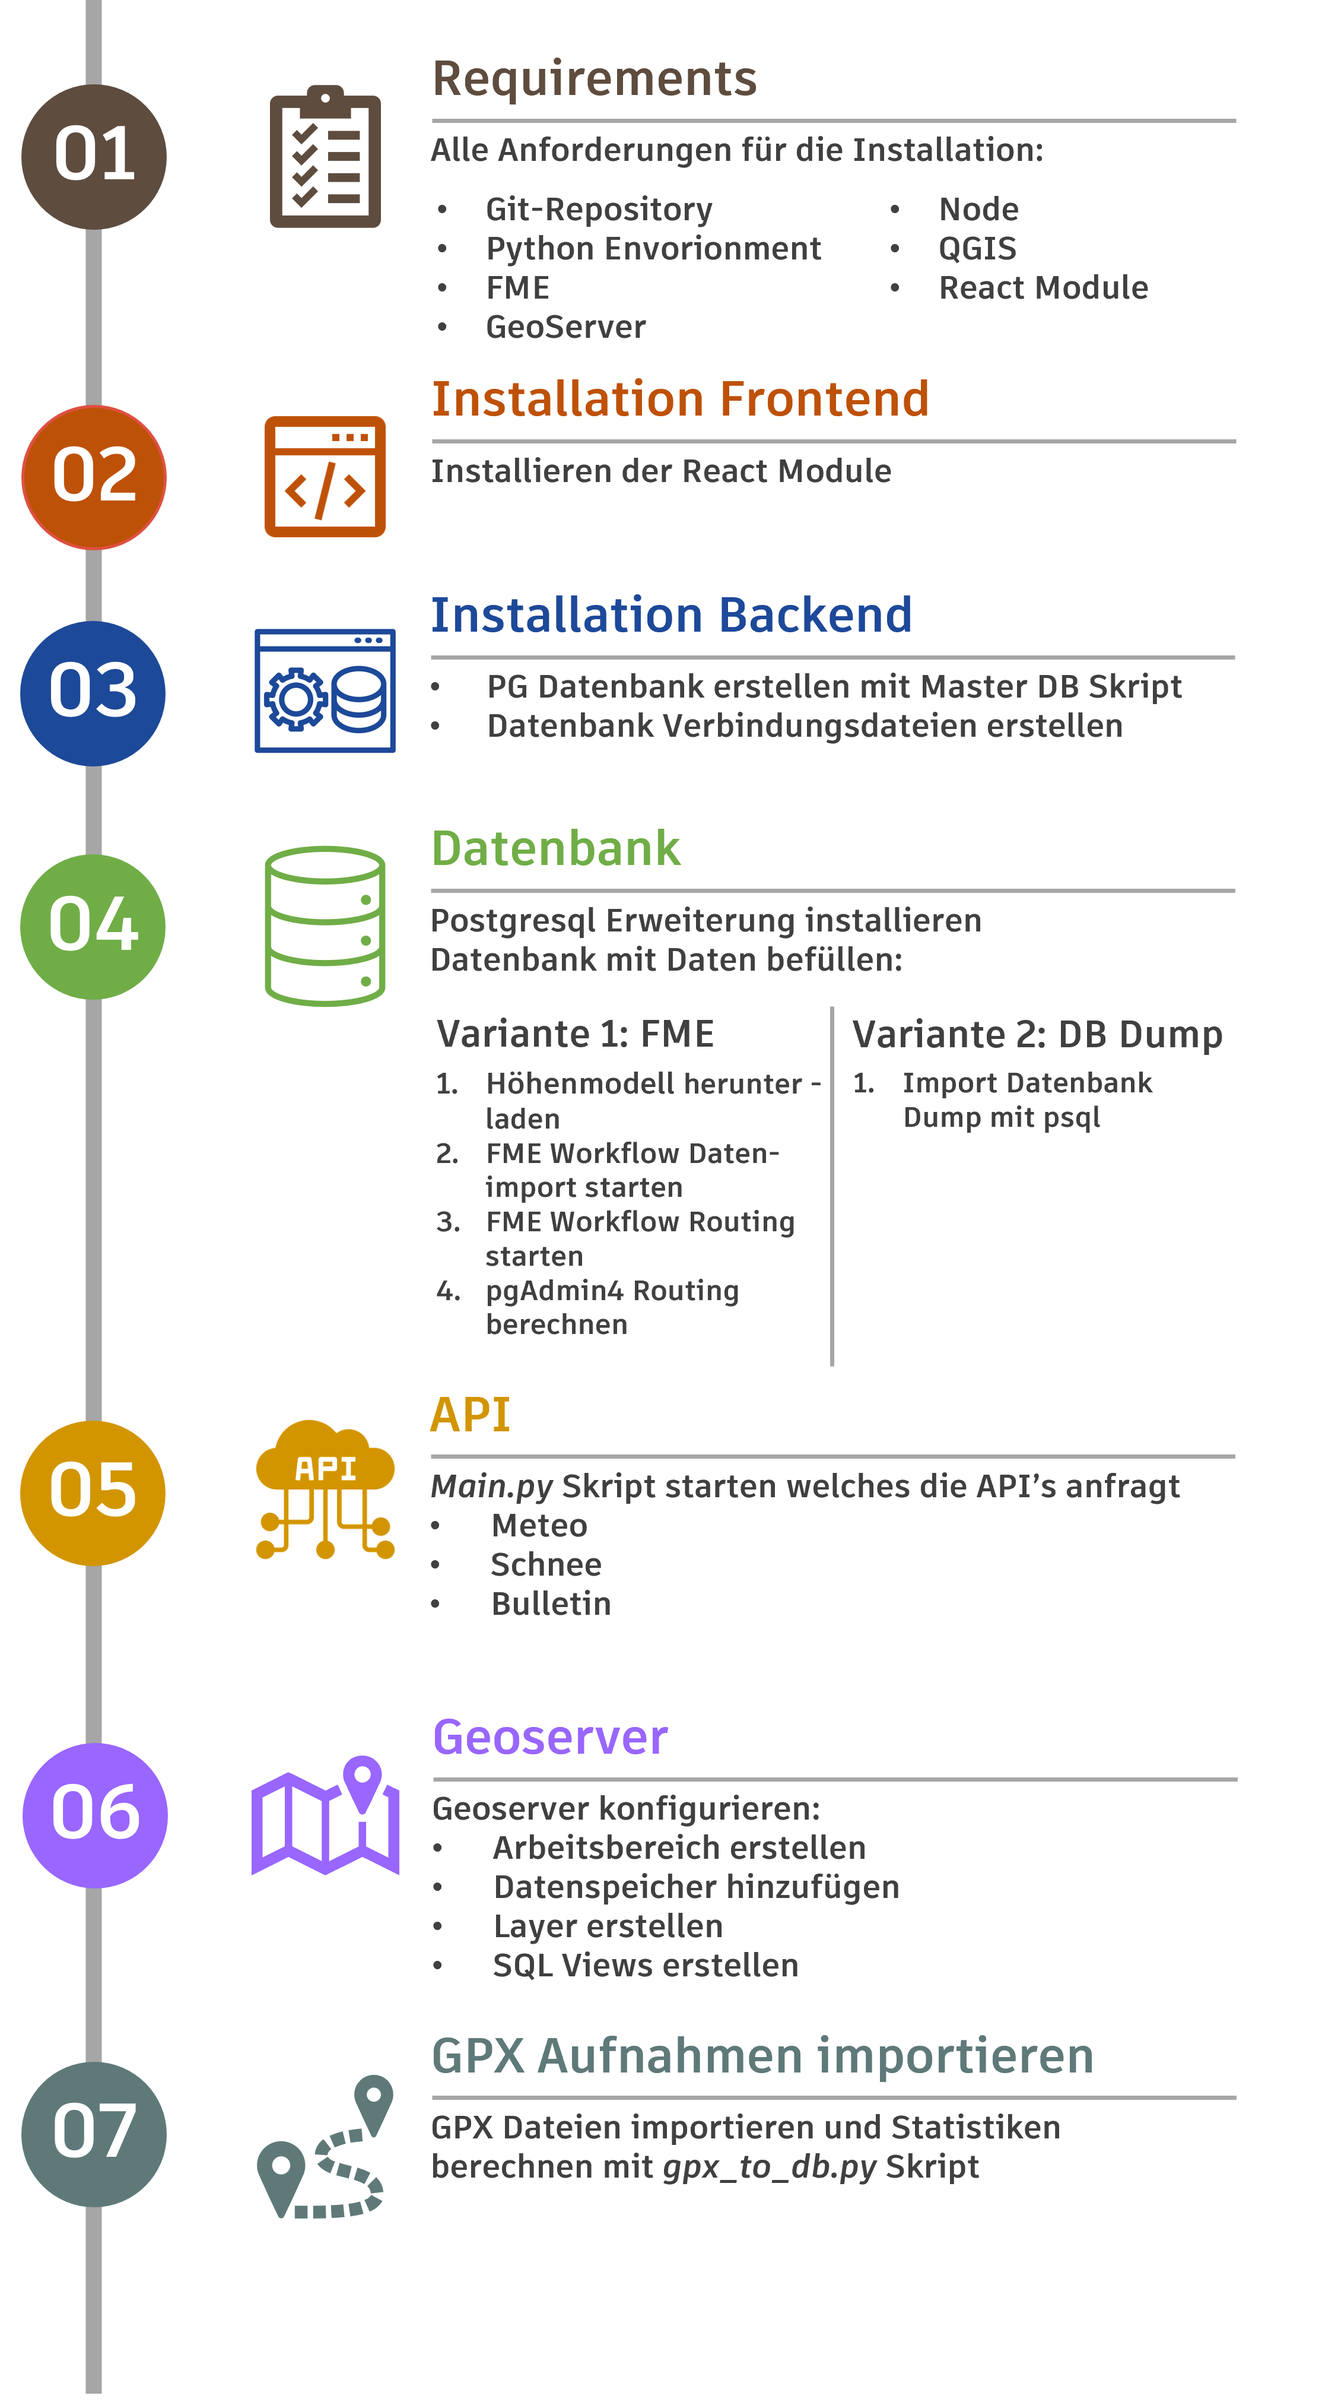
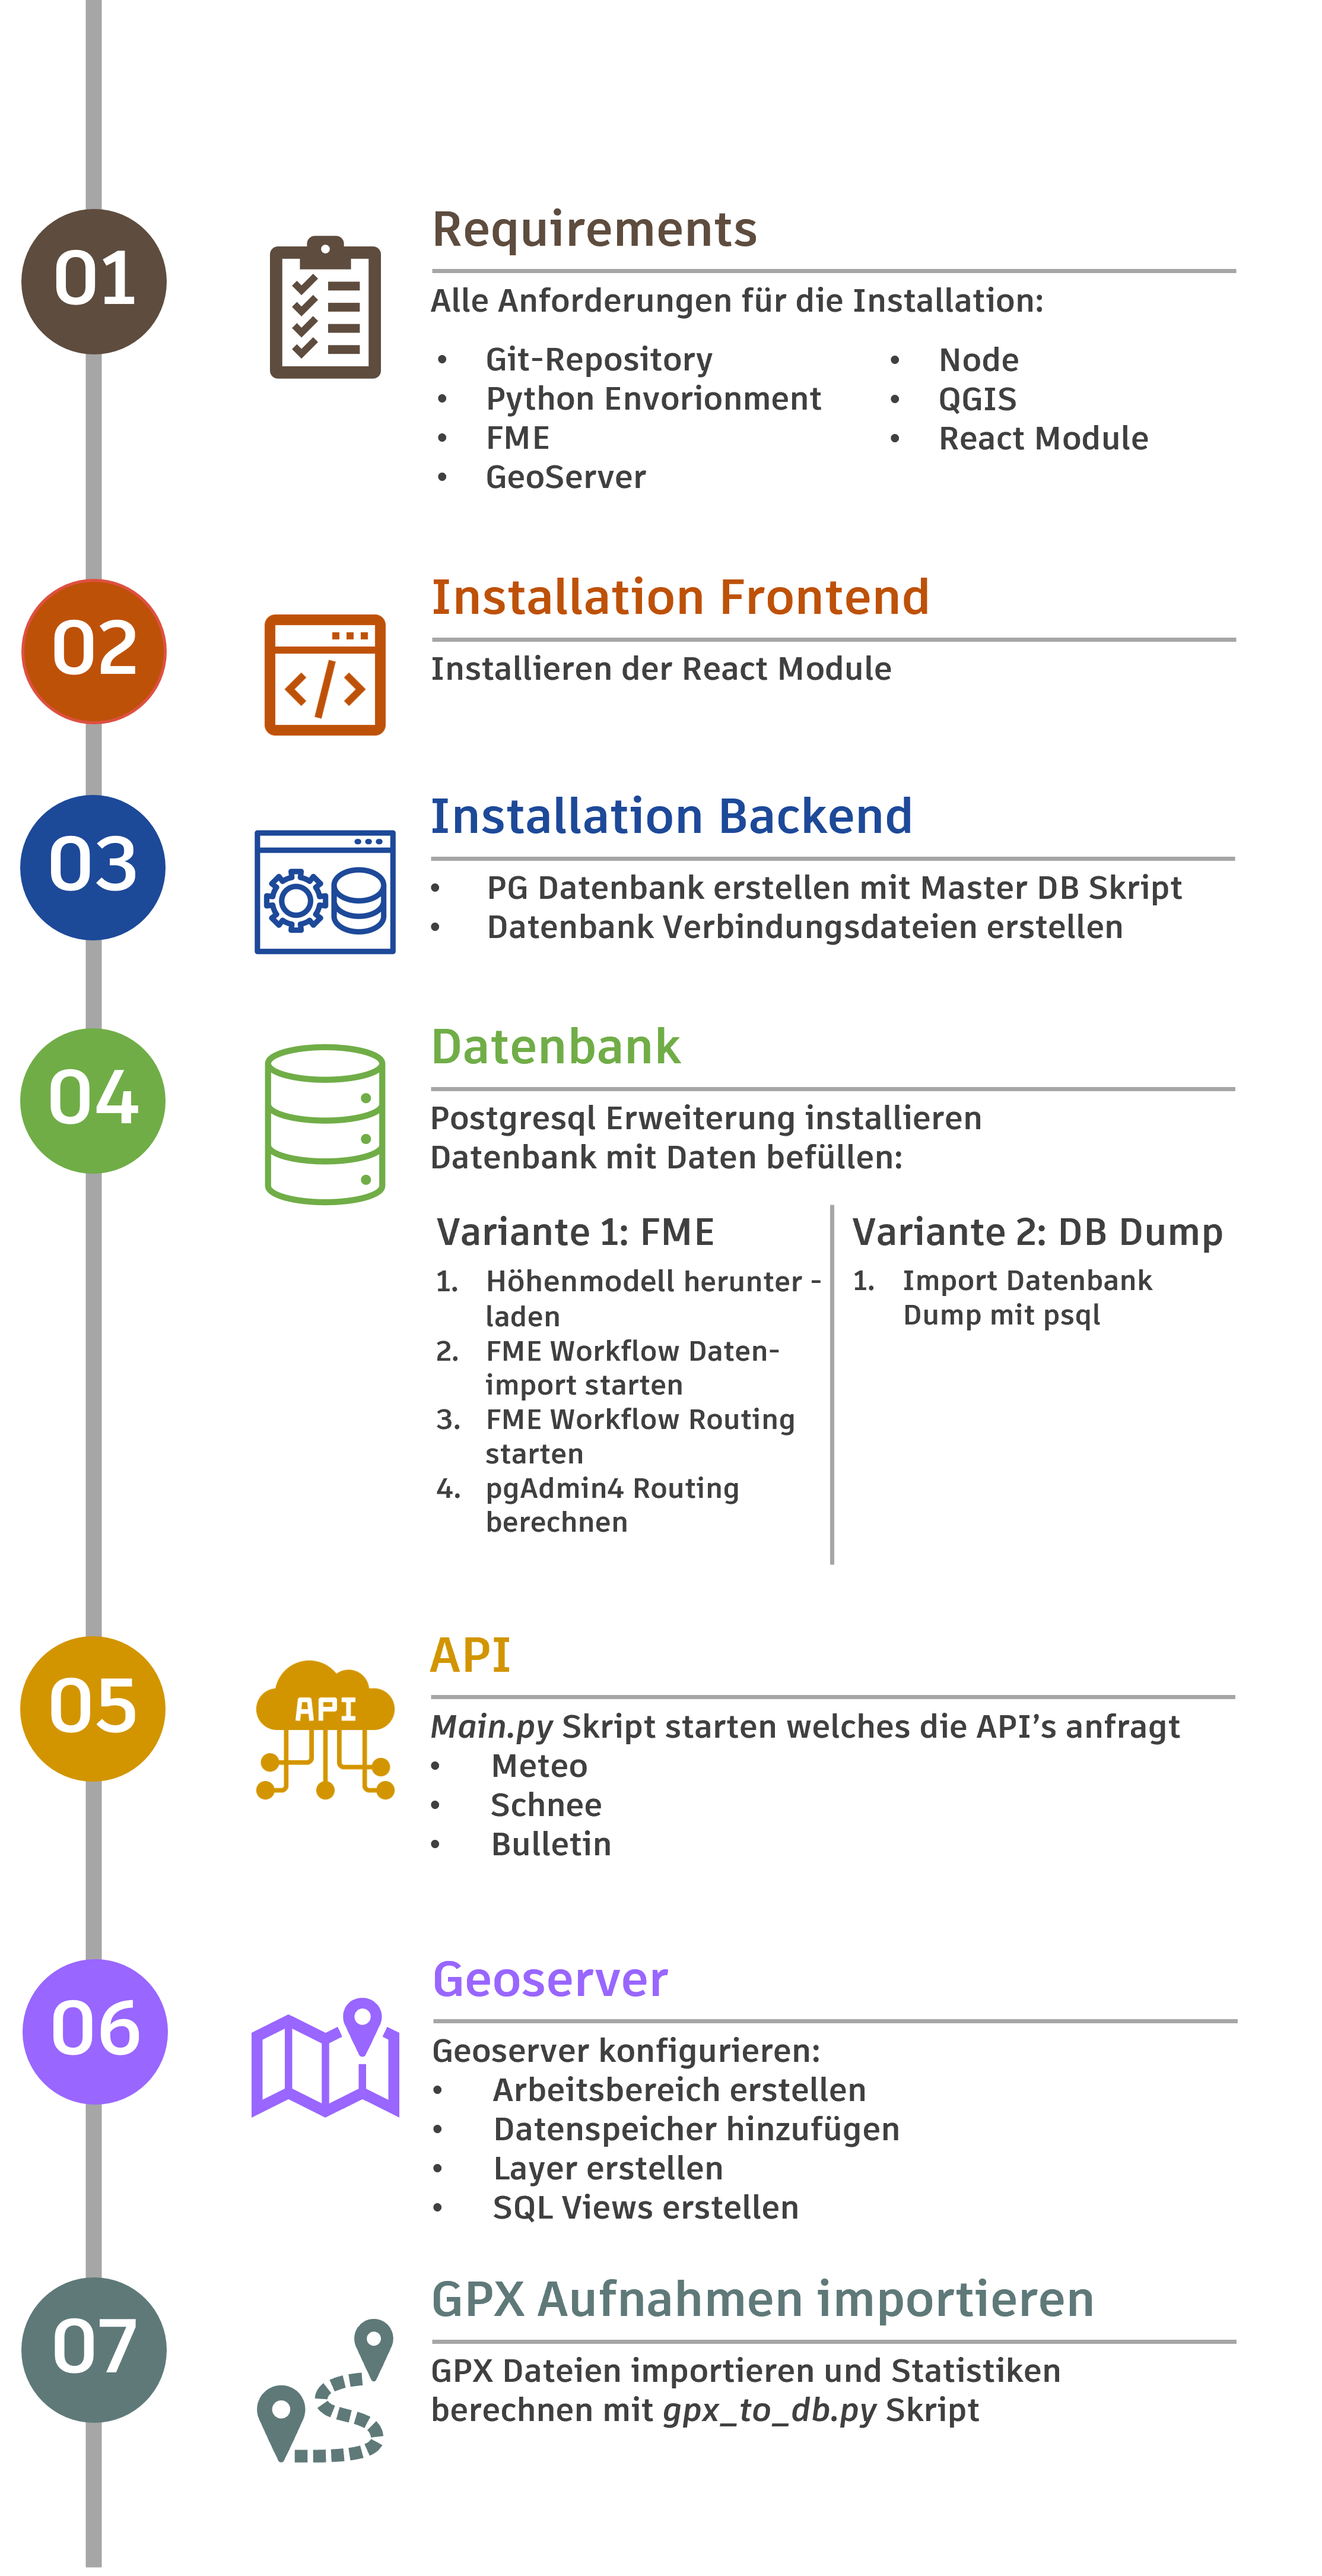
Anpassen Grafik Ordner und Installations Ablauf

diff --git a/docs/Feedback_Alpine_Ace.md b/docs/Feedback_Alpine_Ace.md
@@ -47,9 +47,9 @@ Kommentare zu den einzelnen Pages/Abschnitten:
 Architektur:
 
 - Diagramm, Schrift zT. zu klein, was ist genau im Frontend und was im Backend (npm, node.js) # erledigt
-- Begründen warum kein Bezug der Skigebiet Informationen zur Verfügung steht. #erledigt, Web Scraping ist in den Sommermonaten schwierig, da nicht viele Daten vorhanden sind und das Skigebiert Arosa Lenzerheide zurzeit geschlossen ist.
+- Begründen warum kein Bezug der Skigebiet Informationen zur Verfügung steht. #erledigt, Web Scraping ist in den Sommermonaten schwierig, da nicht viele Daten vorhanden sind und das Skigebiet Arosa Lenzerheide zurzeit geschlossen ist.
 - Localhost anstatt local host #erledigt
-- Datenbankschema routing -> welche Tabellen werden nun verwendet?, wie sind die Sicherheitinformationen eingebunden? #TODO
+- Datenbankschema routing -> welche Tabellen werden nun verwendet?, wie sind die Sicherheitsinformationen eingebunden? #TODO
 - Express-API nicht FastAPI Rest Schnittstelle? #erledigt, Express-API wird verwendet, wir verwenden keine Fast-API
 
 Funktionen
@@ -70,9 +70,9 @@ Incoming Features
 
 - für Lawinengefahrkarte weniger Transparenz nutzen - Pseudostandards der Anbieter nutzen (z.B. WhiteRisk, MeteoSchweiz)#erledigt, Transparenz von 0.3 auf 0.5 angepasst, Videos aber nicht angepasst aber auf Print Screen
 - viel zu viele Skalenstriche bei den Anlagen/Pisten Balken, Beschriftung zu klein - viel besser im Mockup als in der App #erledigt, Bilder in Doku angepasst
-- Rote Buttons mit Icon ergänzen - grossgeschriebene Wörter können wir am schlechtesten lesen - zuviele Container (weisser Hintergrund für die Buttons weglassen, Rundung der Ecken anpassen) #erledigt Schriftgrösse angepasst bei Buttons, Bild Startmenü neu gemacht, Video nicht angepasst, Container nicht angepasst
+- Rote Buttons mit Icon ergänzen - grossgeschriebene Wörter können wir am schlechtesten lesen - zu viele Container (weisser Hintergrund für die Buttons weglassen, Rundung der Ecken anpassen) #erledigt Schriftgrösse angepasst bei Buttons, Bild Startmenü neu gemacht, Video nicht angepasst, Container nicht angepasst
 - gut, dass der Einstellungsknopf vom Mockup in der Anwendung in den Hintergrund gerückt ist
 - Karte hat mehr Platz erhalten, gut - was ist 'E' (links unter der Navigation)? #erledigt Schaltfläche ist jetzt auch in der Navigation Beschreiben. Dabei wird auf einen vorgeben Extend gezoomt.
 - Wetterdaten sehen zufällig aus - Gestaltprinzipien wirken nicht (insbesondere Abstände) #TODO zeit hat nicht gereicht um dies aufzubauen wie im Mokup.
 - allenfalls invertierte Markierung der Tageszeit wählen - Nacht grau, Tag weiss #erledigt
-- Restaurants - Gestaltprinzip Nähe - Beschriftung näher zum zu bezeichnenden Restaurantbild platzieren als zum nächsten Bild #erledigt, Abstand zwischen den einzelnen Restaurant-Boxen ist grösser, der Text ist jetzt direkt unter dem Bild. Text und Bild werden jetzt als Einheit wahrgenommen.
+- Restaurants - Gestaltprinzip Nähe - Beschriftung näher zum zu bezeichnenden Restaurant-Bild platzieren als zum nächsten Bild #erledigt, Abstand zwischen den einzelnen Restaurant-Boxen ist grösser, der Text ist jetzt direkt unter dem Bild. Text und Bild werden jetzt als Einheit wahrgenommen.

diff --git a/docs/index.md b/docs/index.md
@@ -377,7 +377,7 @@ Die Daten der Skigebiete wurden von der Plattform OpenSnowMap bezogen. Die Platf
 
 Die Daten wurden vor dem Import durch FME bereinigt. In einem QGIS Projekt wurden alle Flächen gelöscht, welche nicht innerhalb der Schweiz (Puffer + 10km) liegen. Die Flächen wurden anschliessend als Geopackage im Koordinatensystem EGSG:2056 gespeichert.
 
-Die Flächen werden in der Worckbench gefiltert auf Skigebiete (es gibt Pisten die als Flächen vorhanden sind in OSM). Das Attribut `skigebiet_name` und die ID `skigebiet_id` wird vergeben. Diese ID wird als Verknüpfung verwendet um die Zuordnung zum Skigebiet zu ermöglichen. Die Skigebiete werden anschliessend in der Tabelle `skigebiet` gespeichert. Die Skigebiete werden bis jetzt im Projekt nicht grafisch dargestellt. Sie dienen lediglich der Verknüpfung von andern Daten.
+Die Flächen werden in der Workbench gefiltert auf Skigebiete (es gibt Pisten die als Flächen vorhanden sind in OSM). Das Attribut `skigebiet_name` und die ID `skigebiet_id` wird vergeben. Diese ID wird als Verknüpfung verwendet um die Zuordnung zum Skigebiet zu ermöglichen. Die Skigebiete werden anschliessend in der Tabelle `skigebiet` gespeichert. Die Skigebiete werden bis jetzt im Projekt nicht grafisch dargestellt. Sie dienen lediglich der Verknüpfung von andern Daten.
 
 ##### DHM25
 
@@ -834,9 +834,15 @@ Rückmeldungen aus dem Gelände sind unerlässlich für ein zuverlässiges Lawin
 
 ## Reflektion
 
+Das Projekt war sehr umfassend mit verscheiden Herausforderungen.
+
 ### Gelerntes in diesem Projekt
 
+**Rotuing** : Mit Hilfe der Erweiterung pgrouting konnten Routing Netzwerke über mehre Ebene berechnet werden. Dabei wurde das Verständnis für das automatische erstellen von Knoten , Netzwerk Topologien (gerichtet/ungerichtet, gewichtet/ungewichtet) und Routing Algorithmen (`Dijkstra`, `A\*`).
+
 #### Fehler
+
+**Routing** : Zuerst wurden die Konten für die Pisten und Anlagen
 
 ### Vorgehen nächstes Projekt
 

diff --git a/README.md b/README.md
@@ -13,13 +13,13 @@ Die Dokumentation zum Projekt befindet sich [hier](https://alpineacemanagement.g
 
 ## Ablauf Installation
 
-<center><img src="docs/images/Installationsschritten_grafik.png"  /></center>
+<center><img style="max-height: 60%; width: 60%;" src="docs/images/Installationsschritten_grafik.png"  /></center>
 
 ## Ordnerstruktur
 
 Hier sind die wichtigsten Ordner und Dateien für die Installation aufgelistet.
 
-<center><img src="docs/images/Ordnerstruktur.png"  /></center>
+<center><img style="max-height: 60%; width: 60%;" src="docs/images/Ordnerstruktur.png"  /></center>
 
 ## Requirements
 
